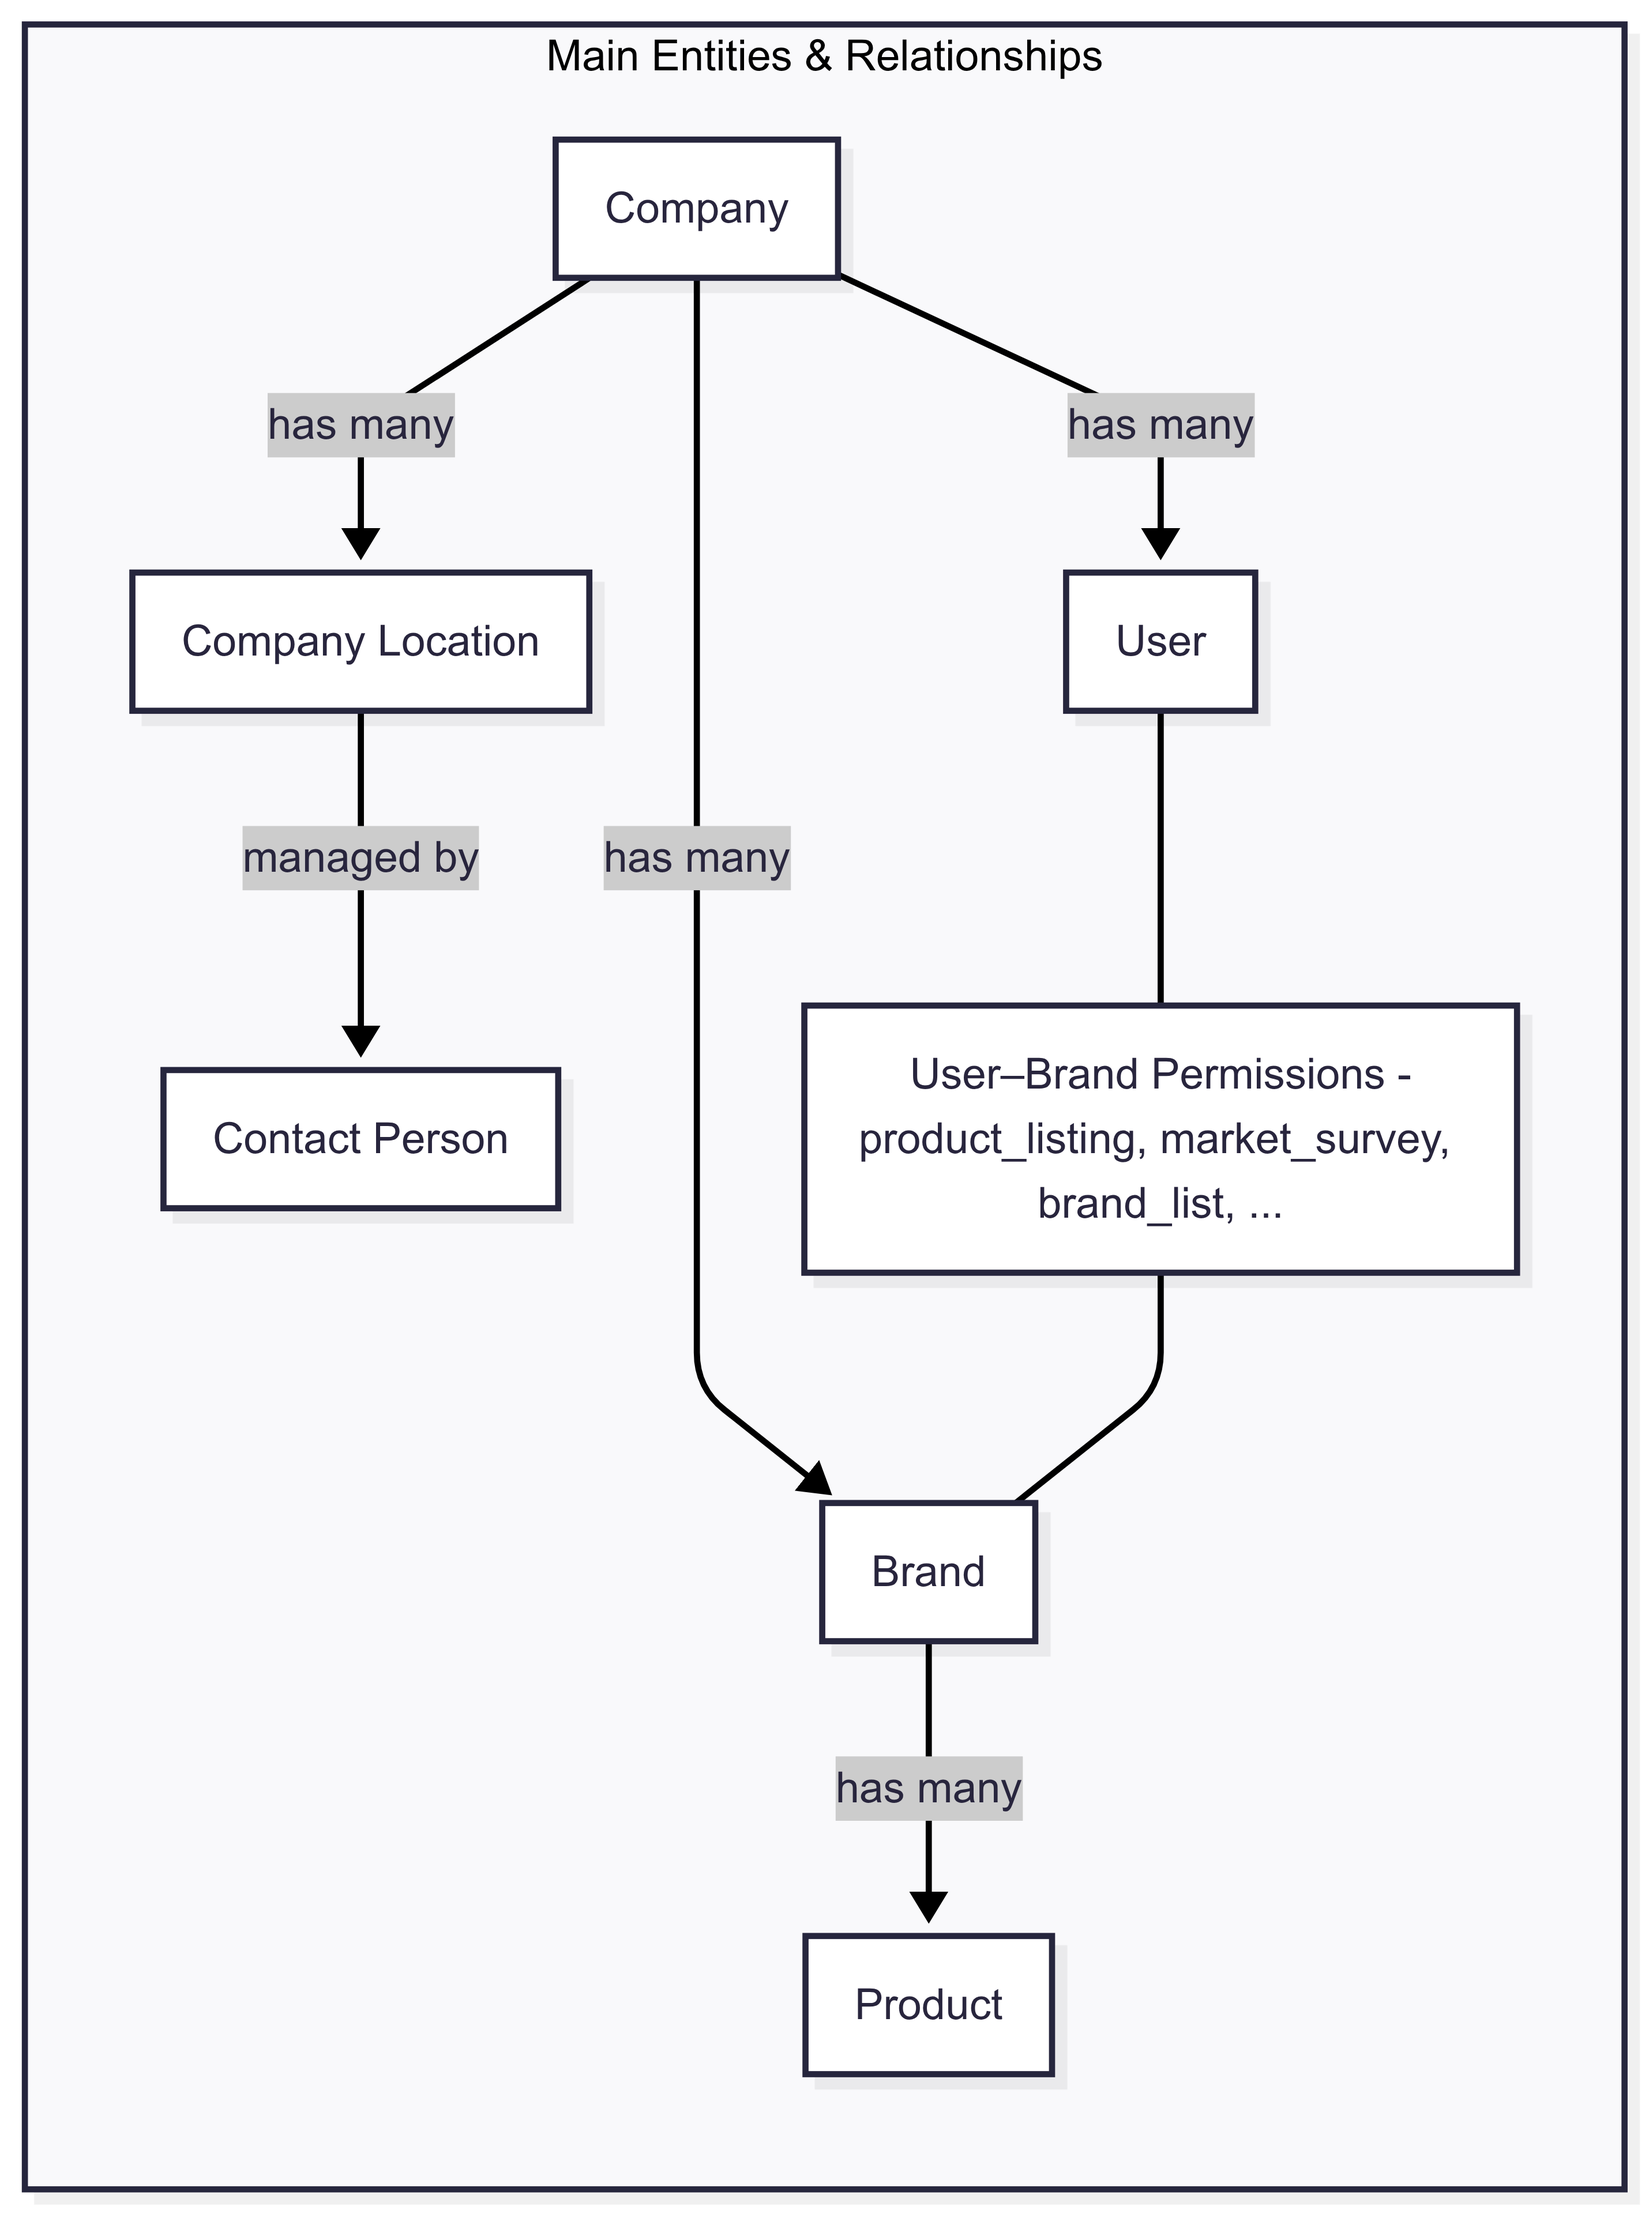
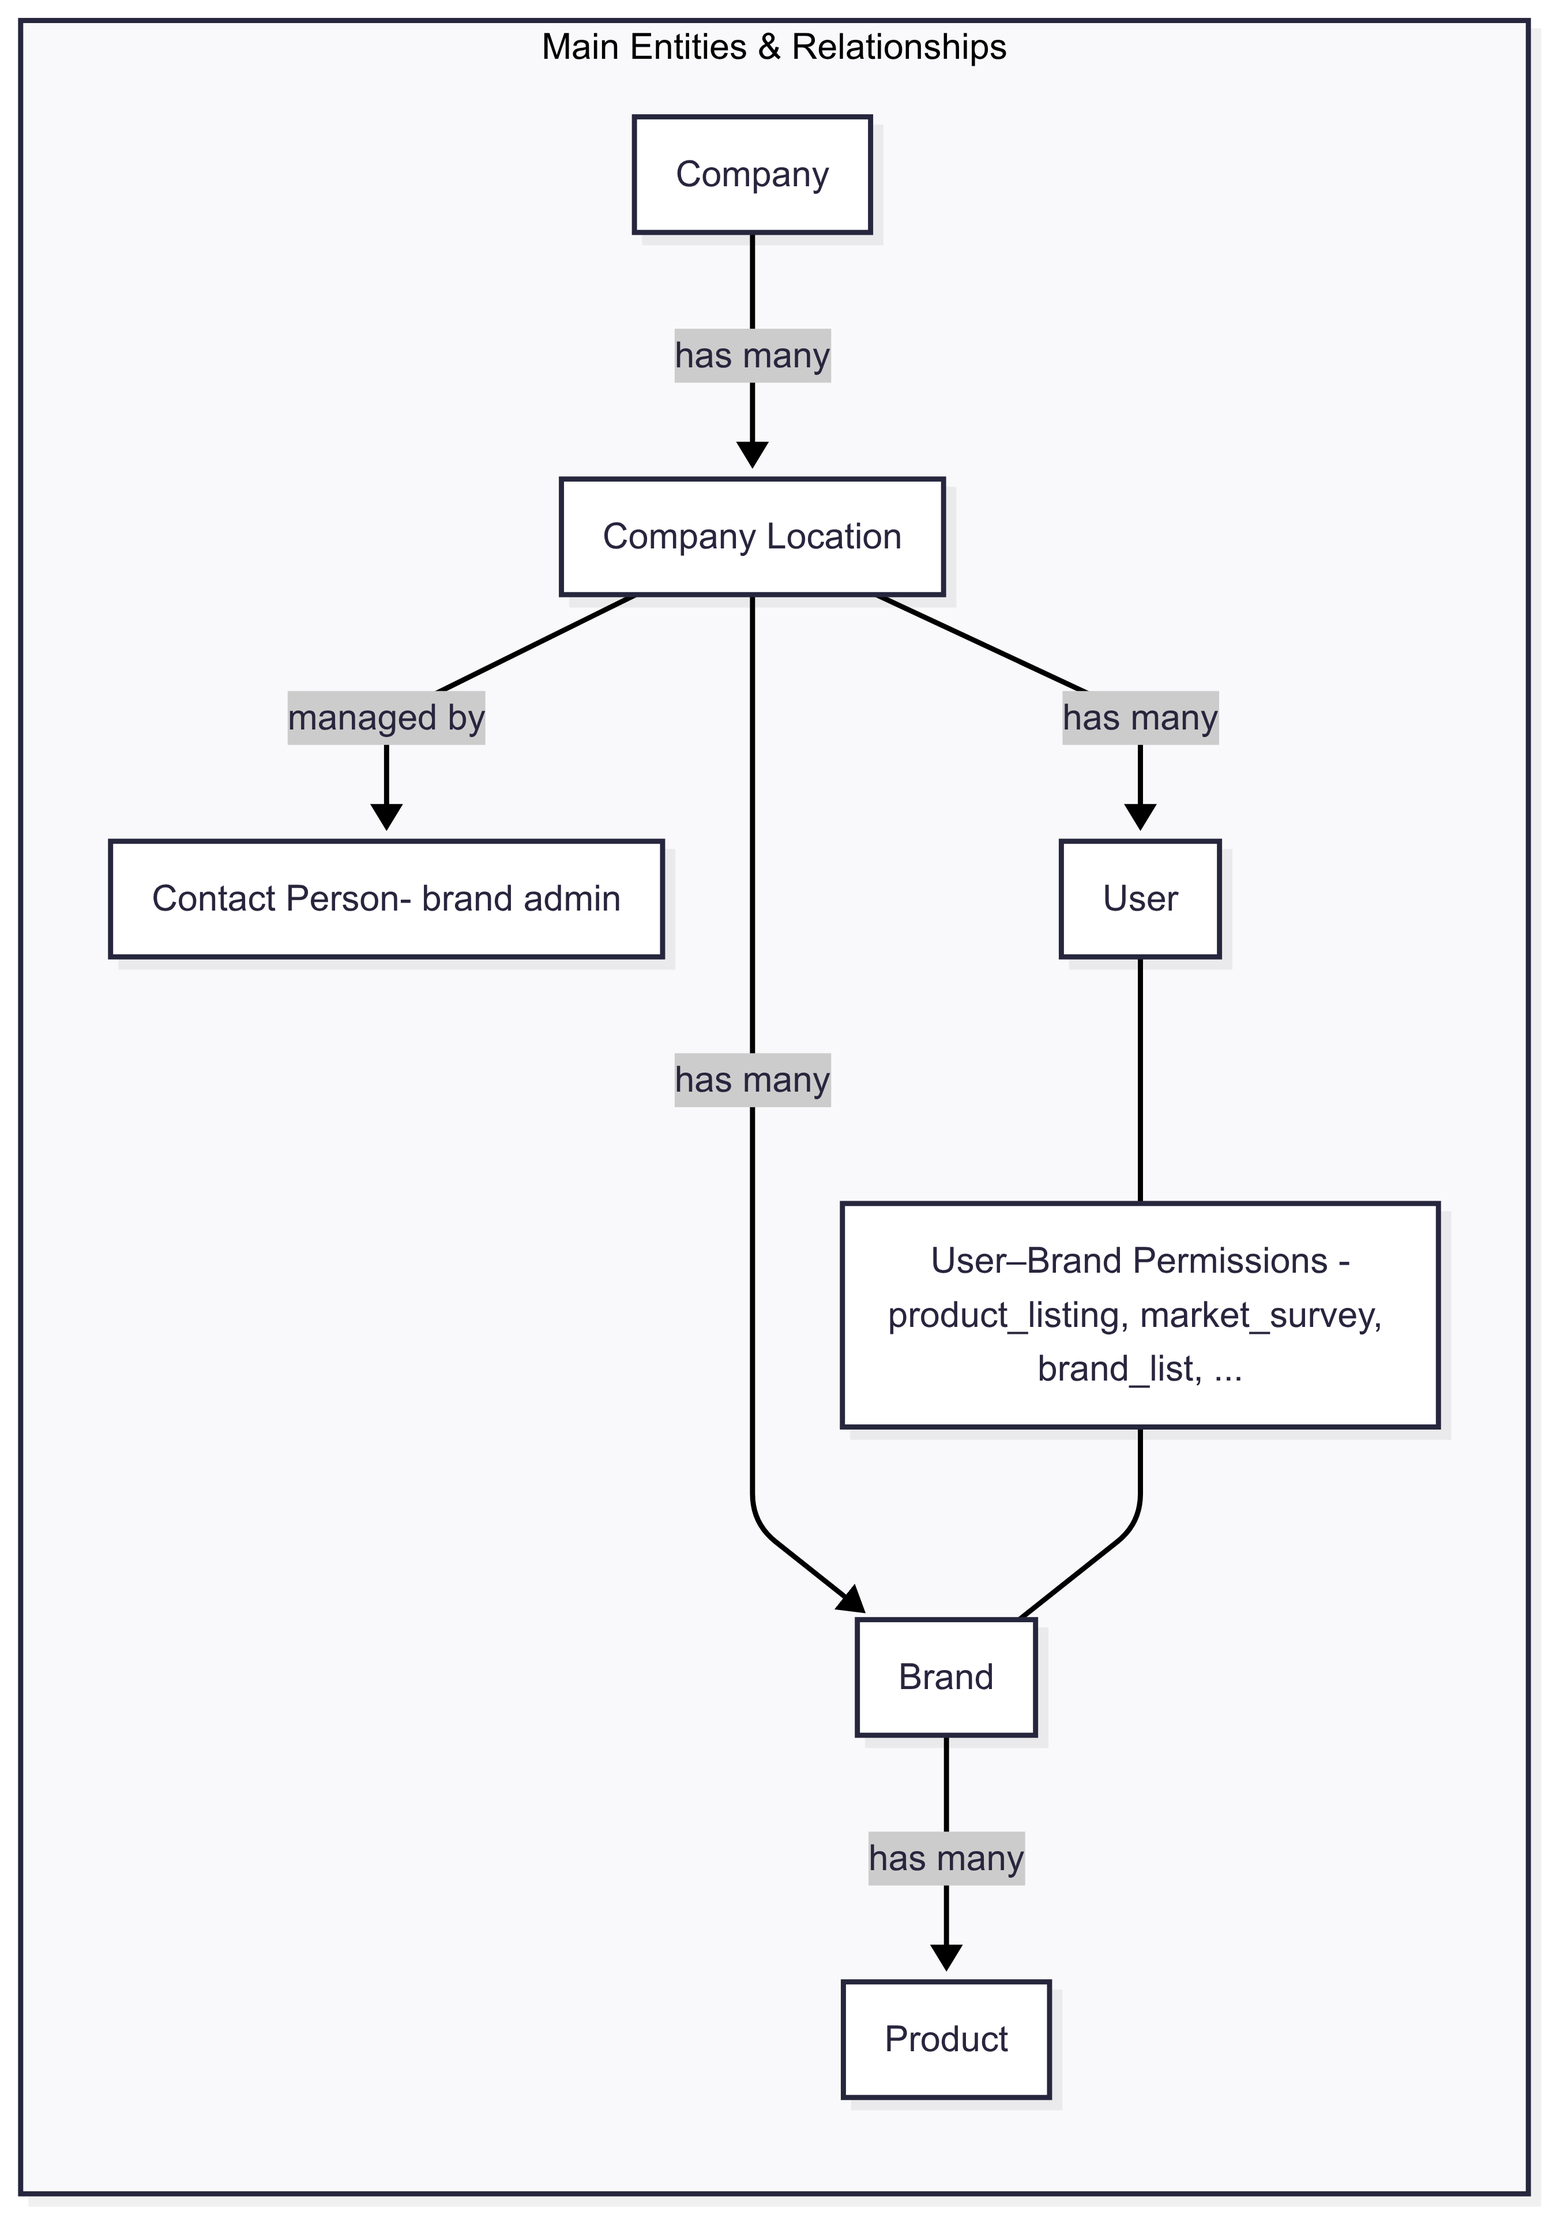
Update flow diagrams for clarity and improve entity relationships in documentation

diff --git a/current-ecom-flow/flow.md b/current-ecom-flow/flow.md
@@ -33,10 +33,13 @@ flowchart LR
     D3 --> D2["Approve/Reject Doctor"]
 
      C1:::Ash
+     D1:::Ash
+     PMOD:::Ash
      B1:::Ash
      B2:::Ash
      U2:::Ash
      U3:::Ash
+     O1:::Ash
      PM2:::Ash
      PM3:::Ash
      PM4:::Ash
@@ -45,8 +48,11 @@ flowchart LR
     classDef note fill:#fff7e6,stroke:#ff9900,stroke-width:1px,stroke-dasharray:5 5
     classDef Ash stroke-width:1px, stroke-dasharray:none, stroke:#999999, fill:#EEEEEE, color:#000000
     style A fill:#e5f1ff,stroke:#0275d8,stroke-width:1px
-    style D2 fill:#ffe5e5,stroke:#d9534f,stroke-width:1px
     style S2 fill:#ffe5e5,stroke:#d9534f,stroke-width:1px
+    style D2 fill:#ffe5e5,stroke:#d9534f,stroke-width:1px
+
+
+
 ```
 ![alt text](<images/admin-flow.png>)
 

diff --git a/flow-need-to-do/flow.md b/flow-need-to-do/flow.md
@@ -6,17 +6,17 @@ flowchart TD
     direction TB
     CE[Company]
     CL[Company Location]
-    CP[Contact Person]
+    CP[Contact Person- brand admin]
     BR[Brand]
     PR[Product]
     U[User]
     UBP[User–Brand Permissions -product_listing, market_survey, brand_list, ...]
 
     CE -->|has many| CL
-    CE -->|has many| BR
+    CL -->|has many| BR
     BR -->|has many| PR
     CL -->|managed by| CP
-    CE -->|has many| U
+    CL -->|has many| U
     U --- UBP
     UBP --- BR
   end
